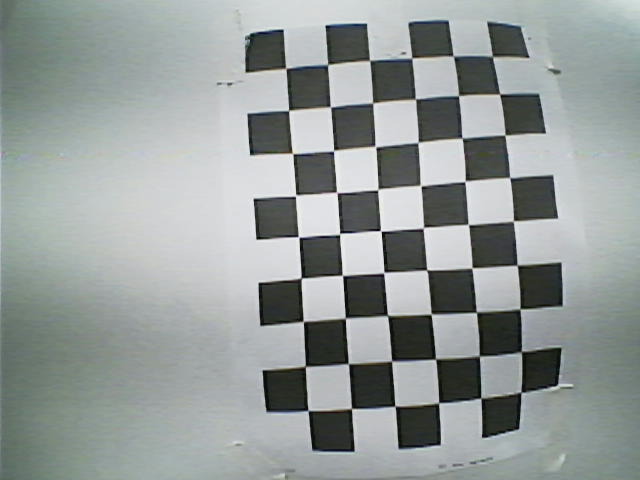
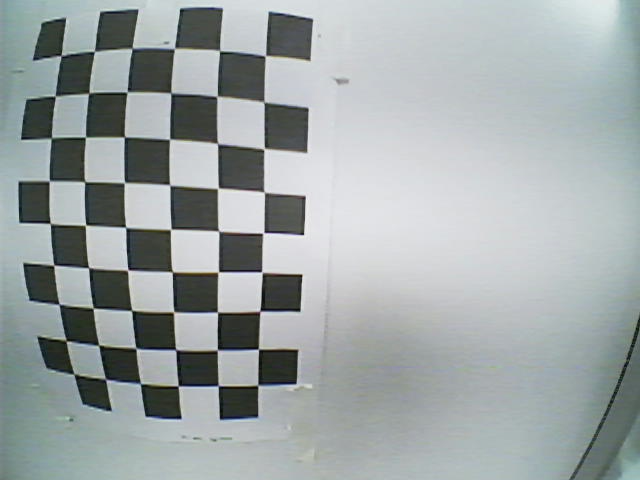
Made some changes to the camera calibration. Need to finish changes tomorrow 3-13

diff --git a/DCF_stuff/opencv/snap.py b/DCF_stuff/opencv/snap.py
@@ -27,7 +27,7 @@ def draw_grid(img, grid_shape, color=(0, 255, 0), thickness=1):
 
 
 # Change directory to a folder that will contain the chessboard pics
-laptop = "C:\\Users\\Dilan\\Documents\\GitHub\\SPRING2023_Team1\\DCF_stuff\\opencv\\cal\\raw\\set1"
+laptop = "C:\\Users\\Dilan\\Documents\\GitHub\\SPRING2023_Team1\\DCF_stuff\\opencv\\cal\\raw\\set3"
 jetson = "/home/dilancf/Desktop/docs/spring2023/SPRING2023_Team1/DCF_stuff/opencv/cam_cal"
 
 # dir = r"C:\\Users\\Dilan\\Documents\\GitHub\\SPRING2023_Team1\\DCF_stuff\\opencv"
@@ -35,7 +35,7 @@ os.chdir(laptop)
 
 while True:
     ret0, frame0 = cam.read()
-    draw_grid(frame0, (3,3))
+    draw_grid(frame0, (3, 3))
     ret1, frame1 = cam.read()
     if not ret0:
         print("failed to grab frame")
@@ -43,11 +43,12 @@ while True:
     cv2.imshow("test", frame0)
 
     k = cv2.waitKey(1)
+    # print(k)
     if k % 256 == 27:
         # ESC pressed
         print("Escape hit, closing...")
         break
-    elif k % 256 == 32:
+    elif k % 256 == 0:
         # SPACE pressed
         img_name = "opencv_frame_{}.png".format(img_counter)
         cv2.imwrite(img_name, frame1)

diff --git a/DCF_stuff/opencv/camera_calibration/get_params_fisheye.py b/DCF_stuff/opencv/camera_calibration/get_params_fisheye.py
@@ -18,7 +18,7 @@ objpoints = [] # 3d point in real world space
 imgpoints = [] # 2d points in image plane.
 
 jetson = '/home/dilancf/Desktop/docs/spring2023/SPRING2023_Team1/DCF_stuff/opencv/cal/'
-laptop = 'C:\\Users\\Dilan\\Documents\\GitHub\\SPRING2023_Team1\\DCF_stuff\\opencv\\cal\\raw\\set1\\'
+laptop = 'C:\\Users\\Dilan\\Documents\\GitHub\\SPRING2023_Team1\\DCF_stuff\\opencv\\cal\\raw\\set3\\'
 images = glob.glob(laptop + '*.png')
 
 _img_shape = None
@@ -67,7 +67,7 @@ calibration_flags = cv.fisheye.CALIB_RECOMPUTE_EXTRINSIC+cv.fisheye.CALIB_FIX_SK
 
 N_OK = len(objpoints)
 K = np.zeros((3, 3))
-D = np.zeros((4, 1))
+D = np.zeros((4, 1)) # Look up docs for fisheye_calibrate models
 rvecs = [np.zeros((1, 1, 3), dtype=np.float64) for i in range(N_OK)]
 tvecs = [np.zeros((1, 1, 3), dtype=np.float64) for i in range(N_OK)]
 rms, _, _, _, _ = \
@@ -85,6 +85,8 @@ rms, _, _, _, _ = \
 print("Found " + str(N_OK) + " valid images for calibration.")
 DIM = _img_shape[::-1]
 K = K.tolist()
+print("K array: ")
+print(K)
 # PRINT THIS OUT!! -DCF
 D = D.tolist()
 

diff --git a/apriltag.py b/apriltag.py
@@ -3,6 +3,8 @@ import cv2
 import numpy as np
 import time
 
+
+
 at_detector = Detector(
     families="tag36h11",
     nthreads=1,
@@ -52,7 +54,7 @@ if __name__ == '__main__':
             # it has to be calibrated per camera model, these numbers
             # are not correct for a robot mouse or any student's
             # particular laptop
-            K=np.array([[184.752, 0, 320], [0, 184.752, 180], [0, 0, 1]])
+            K=np.array([[203.71832715762605, 0.0, 319.5], [0.0, 203.71832715762605, 239.5], [0.0, 0.0, 1.0]])
 
             results = at_detector.detect(gray, estimate_tag_pose=False)
 

diff --git a/DCF_stuff/opencv/cam.py b/DCF_stuff/opencv/cam.py
@@ -1,6 +1,6 @@
 import cv2 as cv
 
-vid = cv.VideoCapture(0)
+vid = cv.VideoCapture(1)
 
 while(True):
 	ret, frame = vid.read()
